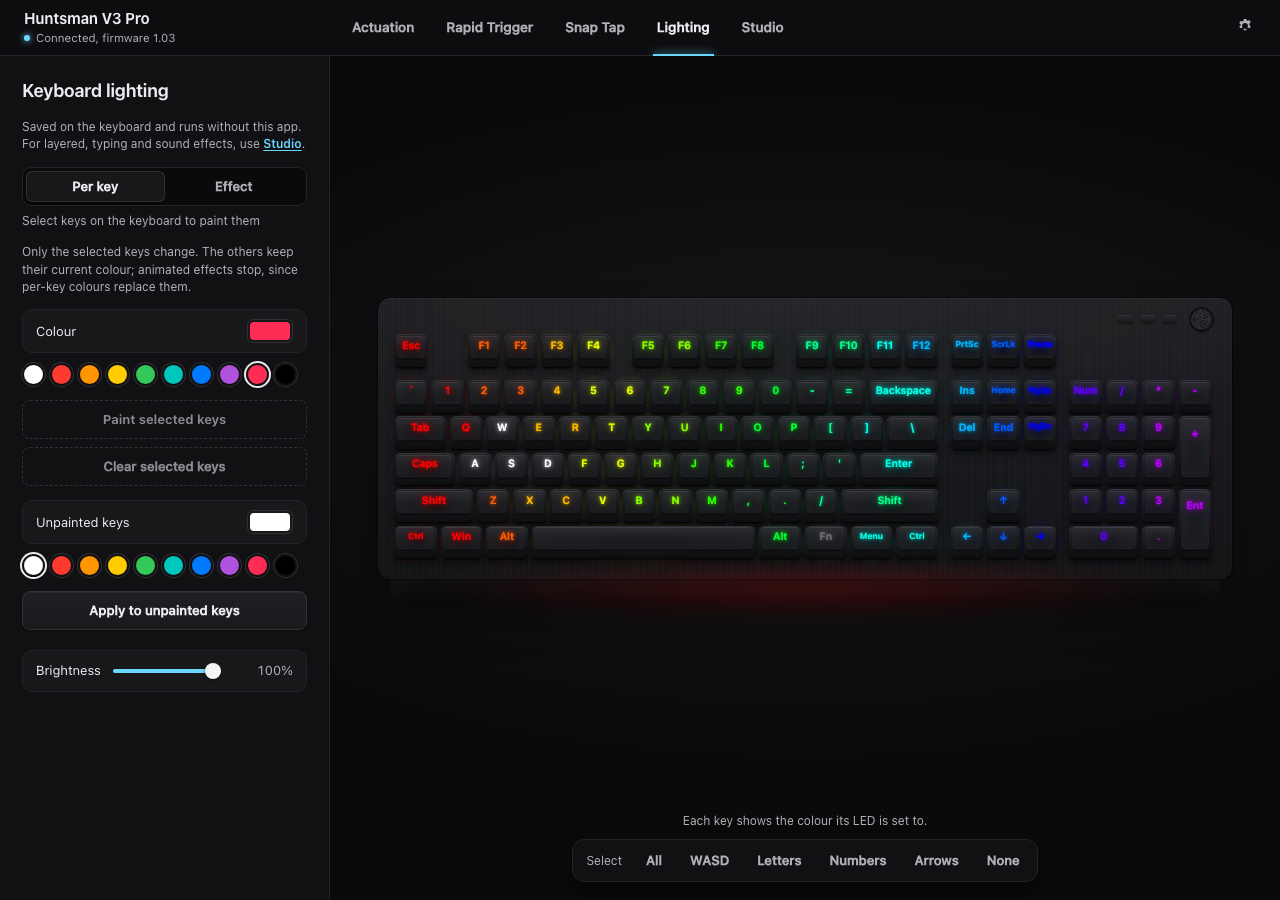
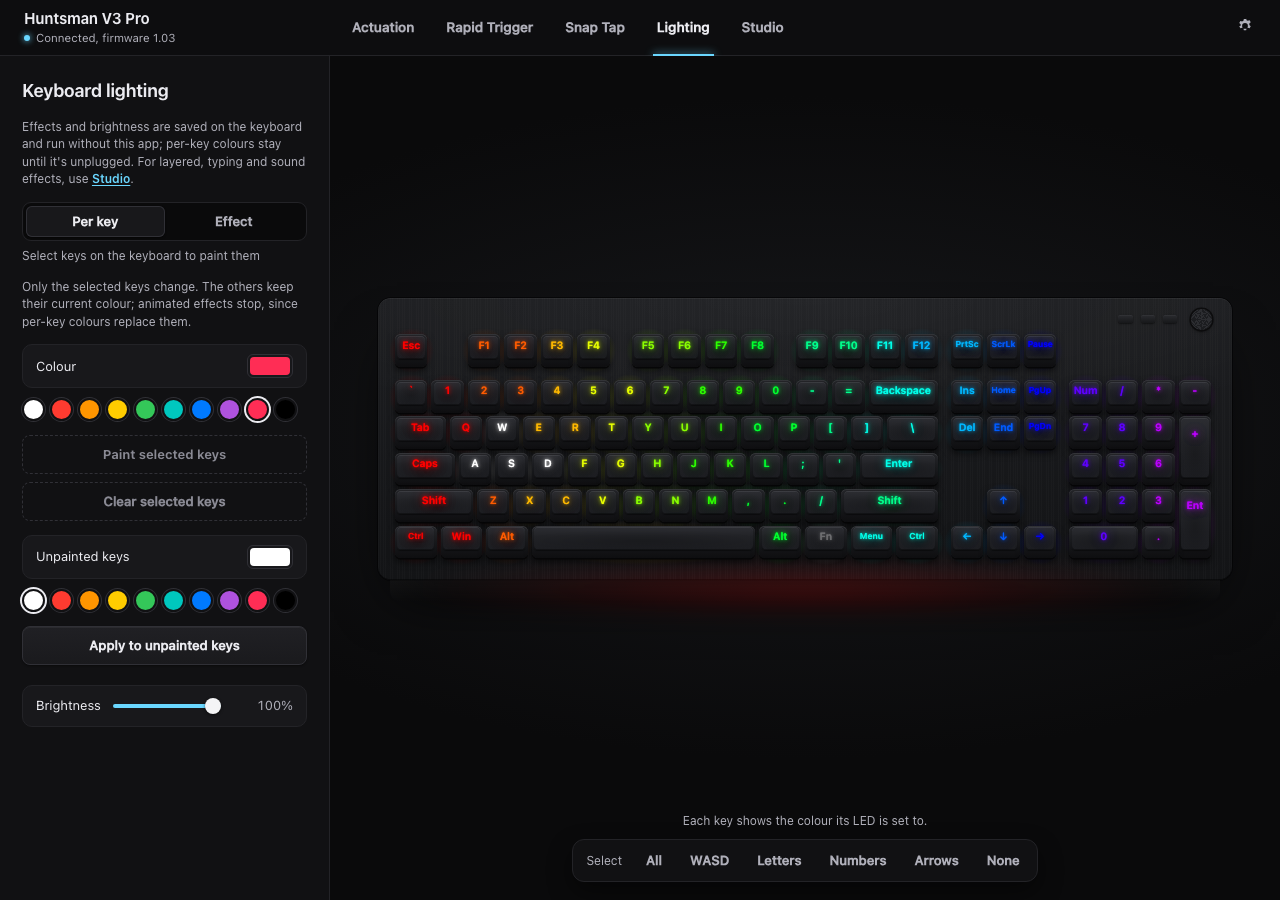
docs: README review fixes; lighting hint says what is saved where
Synapse wording back to what is known, screenshots marked as demo mode, LED check caption, quoted CLI path,
clearer platform badge. The Lighting hint no longer says per-key colours are saved on the keyboard.

Claude-Session: https://claude.ai/code/session_01A4ixEJb9GtfY7KFBjmr985

Changed region(s): [[0.0, 0.1244, 0.25, 0.6844], [0.0312, 0.7156, 0.1875, 0.8089]]

diff --git a/ui/index.html b/ui/index.html
@@ -104,7 +104,7 @@
     <div class="pane" data-pane="lighting" hidden>
       <h2>Keyboard lighting</h2>
       <p class="notice lock-note" hidden>Support for this keyboard is experimental, so changes are off. To allow them, turn on Experimental support in <button class="link" data-view="device">Keyboard</button>.</p>
-      <p class="hint">Saved on the keyboard and runs without this app. For layered, typing and sound effects, use <button class="link" data-view="studio">Studio</button>.</p>
+      <p class="hint">Effects and brightness are saved on the keyboard and run without this app; per-key colours stay until it's unplugged. For layered, typing and sound effects, use <button class="link" data-view="studio">Studio</button>.</p>
       <p class="hint warn" id="studioOnNote" hidden>Studio is lighting the keyboard now. Applying anything here turns Studio off.</p>
       <div class="seg" id="lightMode" role="tablist" aria-label="Lighting mode">
         <button role="tab" id="tabKeys" data-mode="keys" aria-selected="true" aria-controls="keysPane">Per key</button>

diff --git a/README.md b/README.md
@@ -4,15 +4,17 @@
 
 [![Latest release](https://img.shields.io/github/v/release/samir777-eng/huntsman-for-mac?label=release)](https://github.com/samir777-eng/huntsman-for-mac/releases/latest)
 [![License: GPL-3.0-or-later](https://img.shields.io/badge/license-GPL--3.0--or--later-blue)](LICENSE)
-[![macOS on Apple silicon](https://img.shields.io/badge/macOS-Apple%20silicon-111111?logo=apple)](#supported-hardware)
+[![Tested on Apple silicon](https://img.shields.io/badge/tested%20on-Apple%20silicon-111111?logo=apple)](#supported-hardware)
 [![Python 3.11+](https://img.shields.io/badge/python-3.11%2B-3776AB?logo=python&logoColor=white)](#install)
 
-The Huntsman V3 Pro has analog optical switches you can set to a tenth of a millimetre. On a Mac, Razer Synapse sees
-the keyboard and then offers you nothing to set. **Huntsman for Mac** is a free, open-source app that does the job:
+The Huntsman V3 Pro has analog optical switches you can set to a tenth of a millimetre. Razer Synapse for Mac doesn't
+support its settings (at the time of writing). **Huntsman for Mac** is a free, open-source app that does the job:
 per-key actuation from 0.1 to 4.0 mm, Rapid Trigger, Snap Tap, per-key RGB, and a lighting studio that reacts to your
 typing and your music.
 
-![Huntsman for Mac, Actuation tab: four keys set to 1.2 mm while the key tester shows the D key pressed to 2.8 mm](docs/screenshot-actuation.png)
+![Huntsman for Mac in demo mode, Actuation tab: four keys set to 1.2 mm while the key tester shows the D key pressed to 2.8 mm](docs/screenshot-actuation.png)
+
+<sub>Screenshots are from the app's demo mode (`ui/index.html?demo`), which simulates a keyboard.</sub>
 
 ## Quick start
 
@@ -123,7 +125,7 @@ pressed (`heatmap.json`, on this Mac), never which keys in which order, and **Re
 
 ### More models, and a call for testers
 
-![Keyboard tab for a Huntsman V3 Pro Mini in demo mode: Experimental badge, Experimental support switched on, and the LED check running](docs/screenshot-keyboard.png)
+![Keyboard tab for a Huntsman V3 Pro Mini in demo mode: Experimental badge, Experimental support switched on, and the LED check panel](docs/screenshot-keyboard.png)
 
 Version 0.3.0 adds **experimental support** for six more Huntsman models. Nobody has tried them with this app yet.
 They get only commands already checked on the V3 Pro, nothing that changes them is sent until you turn on
@@ -304,7 +306,7 @@ The installed app includes a command-line tool:
 
 ```bash
 APP=~/Applications/"Huntsman for Mac.app"/Contents/Resources
-$APP/venv/bin/python $APP/code/huntsman.py status
+"$APP/venv/bin/python" "$APP/code/huntsman.py" status
 ```
 
 | Command | What it does |
@@ -388,7 +390,7 @@ such as BlackHole, not the microphone.
 ## FAQ
 
 **Does Razer Synapse work with the Huntsman V3 Pro on Mac?**
-Not at the time of writing. Synapse for macOS detects the keyboard but has no settings for it, so actuation, Rapid
+Not at the time of writing: Razer Synapse for Mac doesn't support the Huntsman V3 Pro's settings, so actuation, Rapid
 Trigger and per-key lighting can't be changed there. This app fills that gap.
 
 **How do I change the actuation point of a Razer Huntsman V3 Pro on macOS?**
